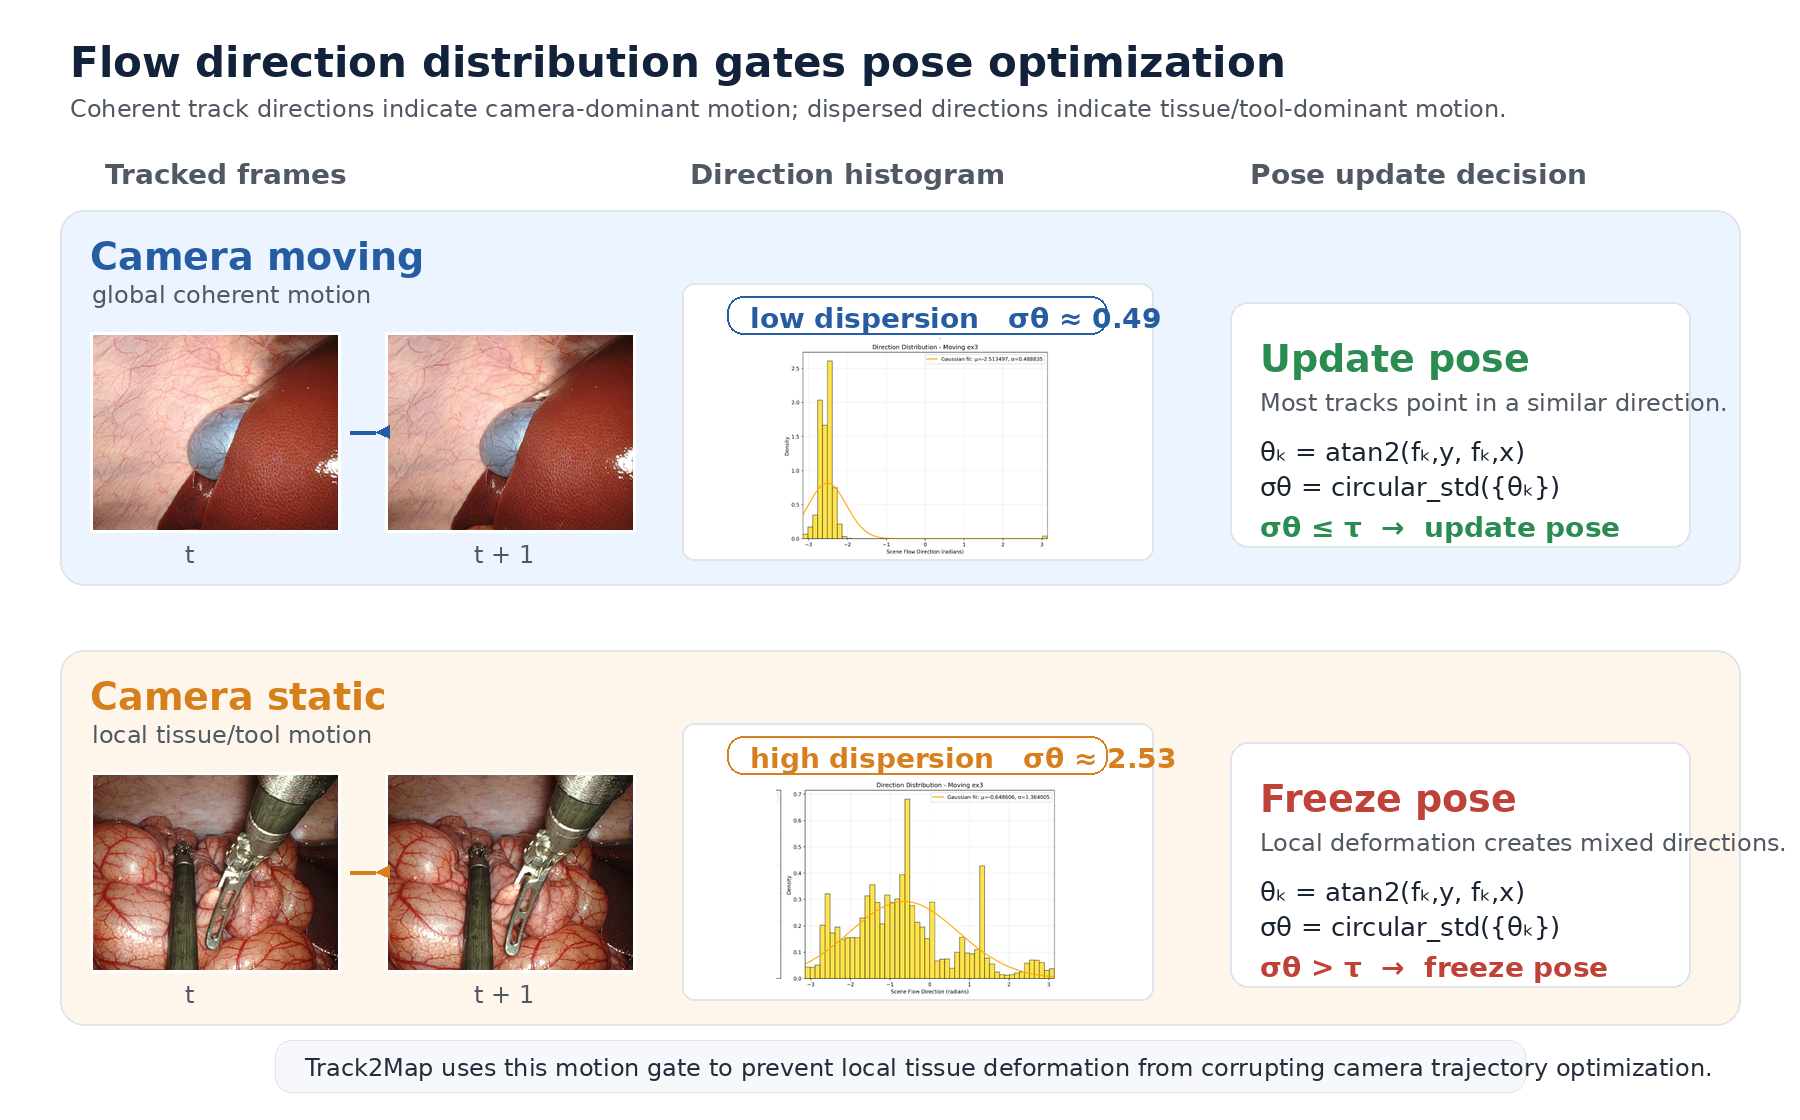
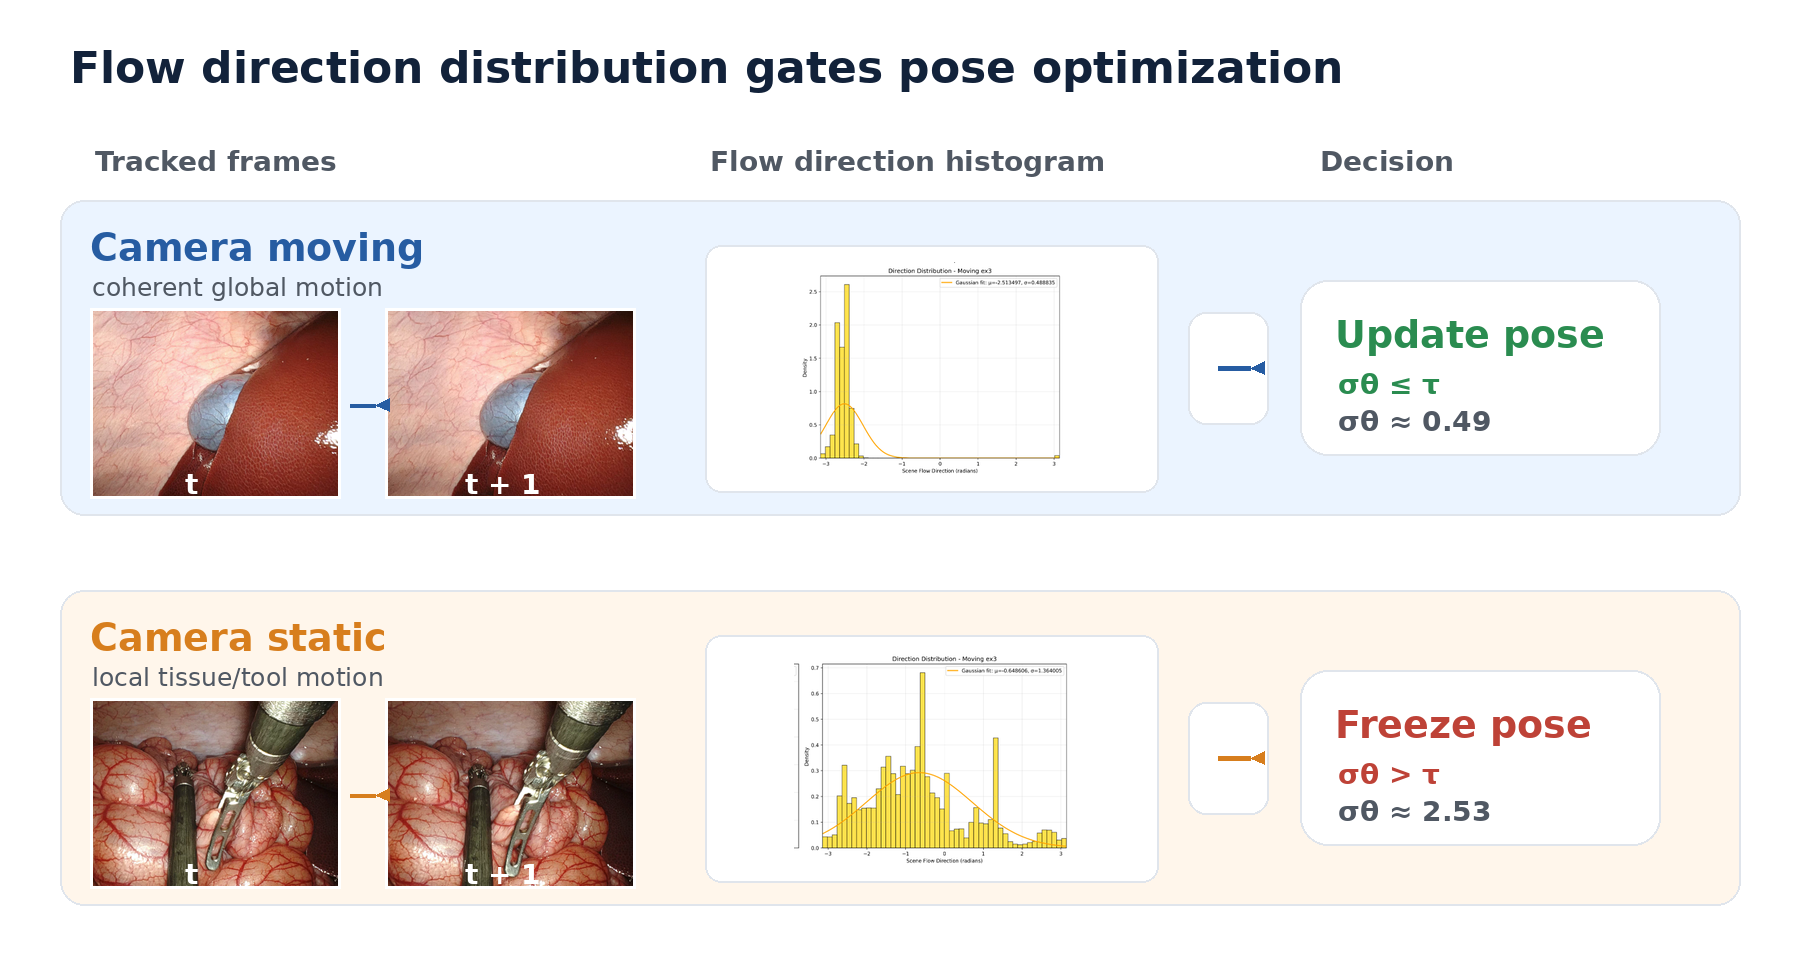
Refine motion gate explanation layout

diff --git a/index.html b/index.html
@@ -103,10 +103,32 @@
         <figure class="figure">
           <img src="assets/motion_gate_intuition.png" alt="Flow direction distribution used to gate pose optimization">
           <figcaption>
-            Low direction dispersion indicates camera-dominant motion, so Track2Map updates the camera pose.
-            High dispersion indicates local deformation/tool motion, so Track2Map freezes pose updates to avoid drift.
+            Flow-direction dispersion provides a compact signal for deciding when camera pose should be optimized.
           </figcaption>
         </figure>
+        <div class="explain-grid">
+          <article class="explain-card">
+            <h3>Intuition</h3>
+            <p>
+              When the endoscope moves, tracked points tend to flow coherently. When the camera is static,
+              tool interaction and tissue deformation produce mixed, local directions.
+            </p>
+          </article>
+          <article class="explain-card">
+            <h3>Gating rule</h3>
+            <p>
+              Track2Map computes <span class="math">θ<sub>k</sub> = atan2(f<sub>k,y</sub>, f<sub>k,x</sub>)</span>
+              and enables pose updates only when <span class="math">σ<sub>θ</sub> ≤ τ</span>.
+            </p>
+          </article>
+          <article class="explain-card">
+            <h3>Why it matters</h3>
+            <p>
+              Freezing pose during high-dispersion periods prevents local tissue/tool motion from being absorbed
+              into the camera trajectory, reducing drift during online mapping.
+            </p>
+          </article>
+        </div>
       </div>
     </section>
 

diff --git a/assets/site.css b/assets/site.css
@@ -187,7 +187,8 @@ h3 {
 }
 
 .cards,
-.metric-grid {
+.metric-grid,
+.explain-grid {
   display: grid;
   grid-template-columns: repeat(3, minmax(0, 1fr));
   gap: 18px;
@@ -195,6 +196,7 @@ h3 {
 
 .card,
 .metric,
+.explain-card,
 .figure,
 .video-wrap,
 pre {
@@ -208,9 +210,23 @@ pre {
   padding: 22px;
 }
 
-.card p {
+.card p,
+.explain-card p {
   margin: 0;
   color: var(--muted);
+}
+
+.explain-grid {
+  margin-top: 18px;
+}
+
+.explain-card {
+  padding: 20px;
+}
+
+.math {
+  color: #2c2440;
+  font-weight: 760;
 }
 
 .figure {
@@ -325,6 +341,7 @@ footer {
 
   .cards,
   .metric-grid,
+  .explain-grid,
   .split {
     grid-template-columns: 1fr;
   }
